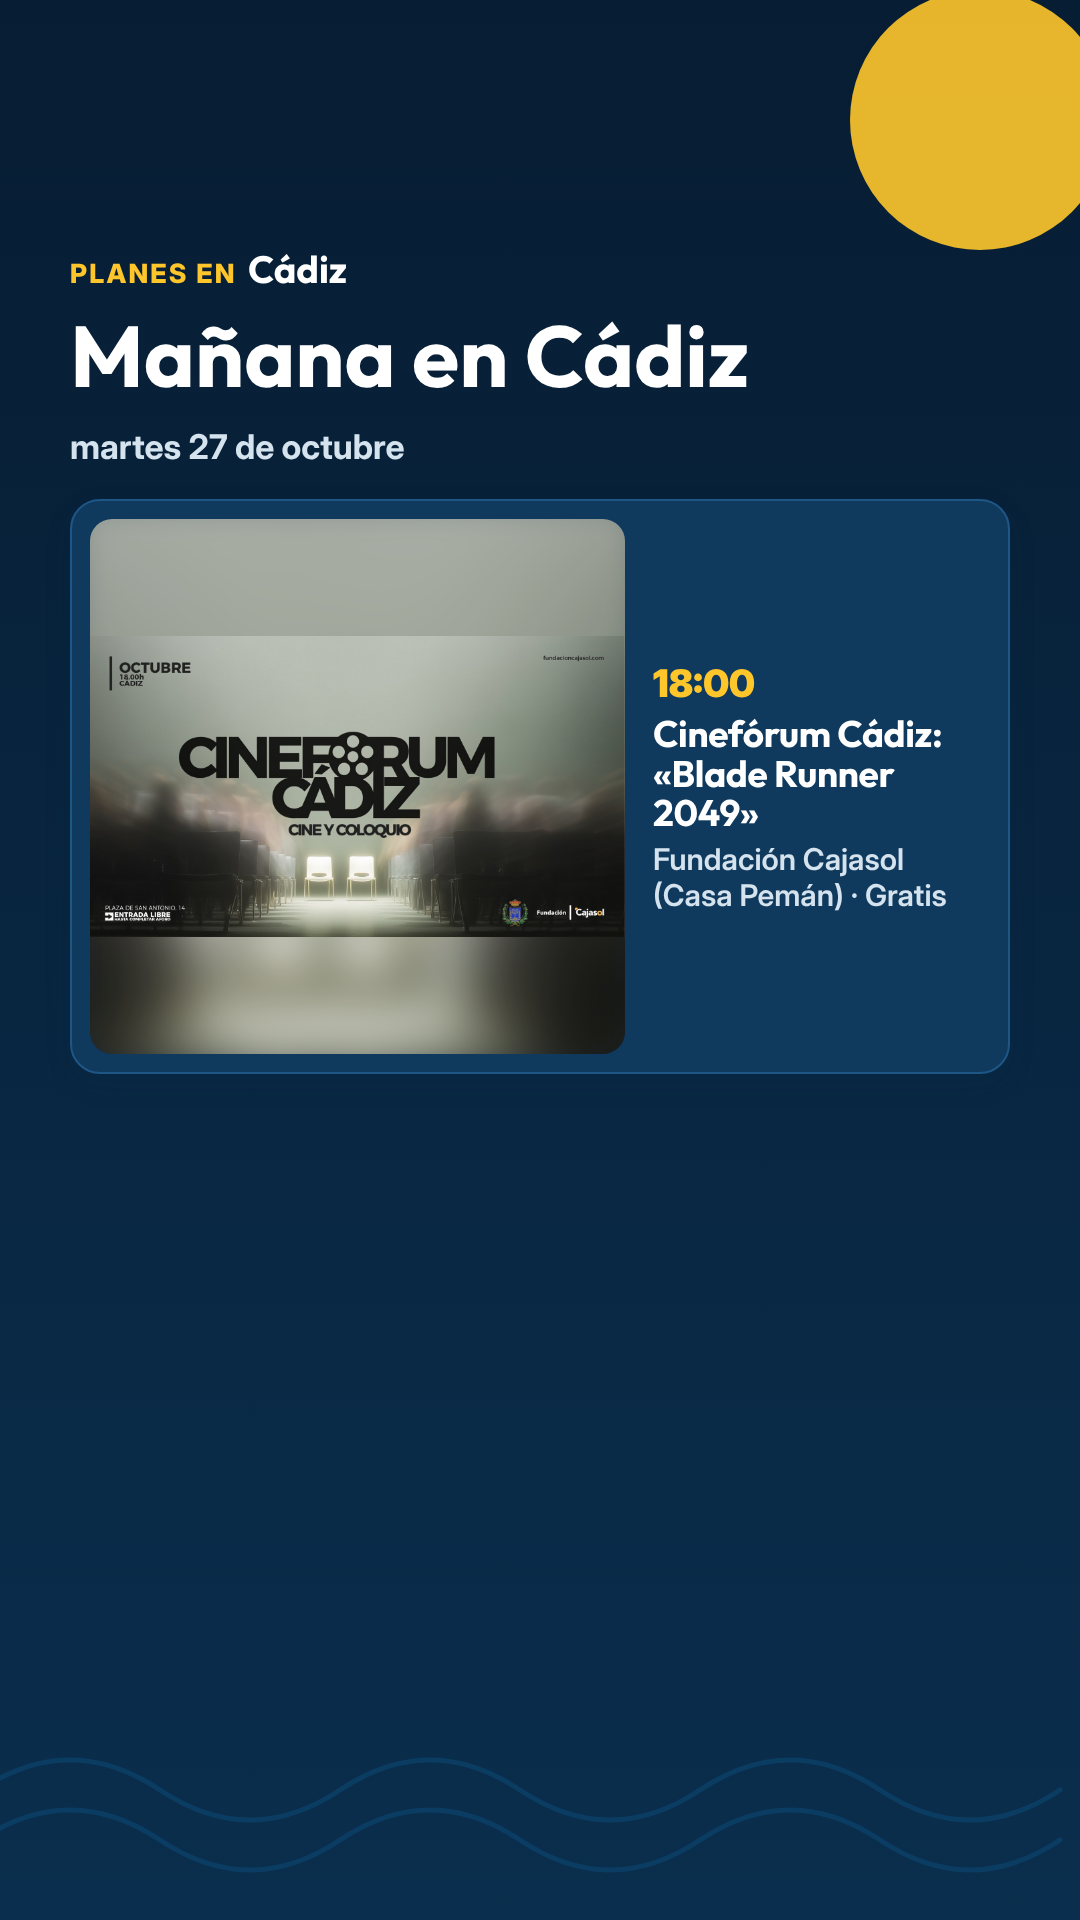
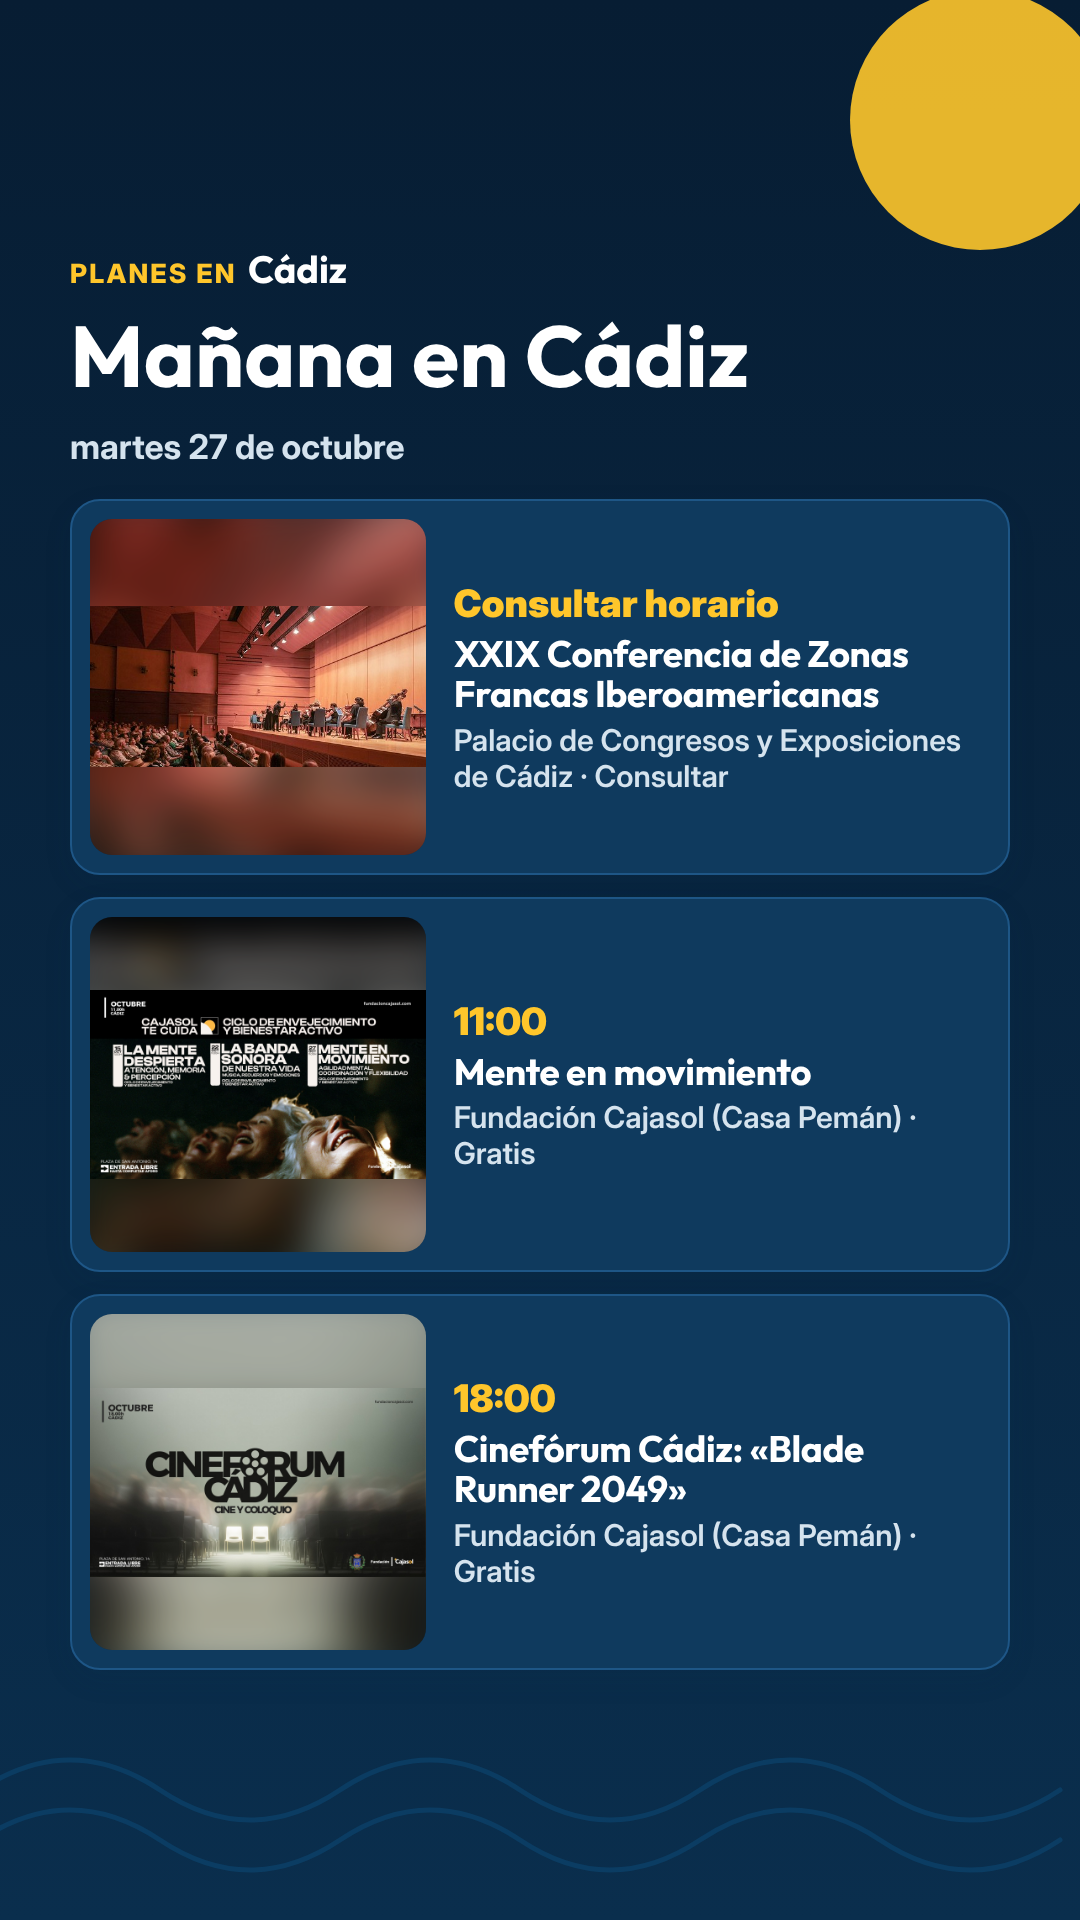
Story Mañana en Cádiz con 3 planes; 'Consultar horario' en plantillas; flujo mañana→hoy
Claude-Session: https://claude.ai/code/session_015K7xjVeU4nwxNYicvNL5Uy

diff --git a/plantilla/reel.html b/plantilla/reel.html
@@ -160,7 +160,7 @@ async function render(d){
     const diaIdx=Math.max(0,dias.findIndex(x=>x.iso===ev.fecha));
     const segs=d.eventos.map((_,j)=>`<i><b></b></i>`).join("");
     const tabs=dias.map((x,j)=>`<span class="dia ${j===diaIdx?"on":""}">${x.abr} ${x.num}</span>`).join("");
-    const horaT=(ev.todo_el_dia||!ev.hora_inicio)?"Todo el día":(ev.hora_fin?`${ev.hora_inicio}–${ev.hora_fin}`:ev.hora_inicio);
+    const horaT=(ev.todo_el_dia||(!ev.hora_inicio&&ev.etiqueta))?"Todo el día":!ev.hora_inicio?"Consultar horario":(ev.hora_fin?`${ev.hora_inicio}–${ev.hora_fin}`:ev.hora_inicio);
     e.innerHTML=`<div class="sol"></div><div class="prog">${segs}</div><div class="dias">${tabs}</div><div class="nro">${i+1}/${n}</div>
       <div class="foto-w"><div class="k"><div class="f" ${fotoAttrs(ev)} role="img" aria-label="${esc(ev.imagen&&ev.imagen.alt_text)}"></div></div></div>
       <span class="cat">${esc(ev.etiqueta||ev.categoria)}</span>${ev.fecha_txt?`<span class="cat b">${esc(ev.fecha_txt)}</span>`:""}

diff --git a/plantilla/story.html b/plantilla/story.html
@@ -18,7 +18,7 @@ h1{font-size:62px;line-height:1.06;overflow-wrap:anywhere}
 async function render(d){
   aplicarTema(d); const ev=d.evento;
   const dir=ev.direccion?`<small class="clamp1">${esc(ev.direccion)}</small>`:"";
-  const hora=(ev.todo_el_dia||!ev.hora_inicio)?"Todo el día":`${esc(ev.hora_inicio)}${ev.hora_fin?" a "+esc(ev.hora_fin):""}`;
+  const hora=(ev.todo_el_dia||(!ev.hora_inicio&&ev.etiqueta))?"Todo el día":!ev.hora_inicio?"Consultar horario":`${esc(ev.hora_inicio)}${ev.hora_fin?" a "+esc(ev.hora_fin):""}`;
   document.getElementById("l").innerHTML=`<div class="fondo foto" style="background-image:${foto(ev)}"></div><div class="deco"></div>
   <div class="zona">
     <div class="fila">${logo(d,"mini",38)}</div>

diff --git a/plantilla/comun.js b/plantilla/comun.js
@@ -2,7 +2,8 @@
 function esc(s) { return String(s ?? "").replace(/[&<>"]/g, c => ({ "&": "&amp;", "<": "&lt;", ">": "&gt;", '"': "&quot;" }[c])); }
 function foto(ev) { return (ev.imagen && ev.imagen.ruta_abs) ? `url('${ev.imagen.ruta_abs}')` : "none"; }
 function horaTxt(ev) {
-  if (ev.todo_el_dia || !ev.hora_inicio) return "Todo el día";
+  if (ev.todo_el_dia || (!ev.hora_inicio && ev.etiqueta)) return "Todo el día";
+  if (!ev.hora_inicio) return "Consultar horario";
   return ev.hora_fin ? `${ev.hora_inicio}–${ev.hora_fin}` : ev.hora_inicio;
 }
 function precioTxt(ev) { return ev.precio || "Consultar"; }

diff --git a/interaccion.py b/interaccion.py
@@ -31,7 +31,7 @@ EMOJI = {"música": "🎶", "teatro": "🎭", "infantil": "🧒", "exposición":
 
 def _linea_evento(ev, con_dia=False):
     """Dos líneas por plan: «🎶 20:00 · Nombre» y «📍 Lugar · precio»."""
-    hora = "Todo el día" if (ev.get("todo_el_dia") or not ev.get("hora_inicio")) else (f"{ev['hora_inicio']}–{ev['hora_fin']}" if ev.get("hora_fin") else ev["hora_inicio"])
+    hora = "Todo el día" if (ev.get("todo_el_dia") or (not ev.get("hora_inicio") and ev.get("etiqueta"))) else ("Consultar horario" if not ev.get("hora_inicio") else None) or (f"{ev['hora_inicio']}–{ev['hora_fin']}" if ev.get("hora_fin") else ev["hora_inicio"])
     emo = EMOJI.get(ev.get("categoria"), "✨")
     dia = (ev.get("fecha_txt") or "") if con_dia else ""
     sin_hora = hora == "Todo el día"

diff --git a/tareas.md b/tareas.md
@@ -25,7 +25,7 @@ Trabaja en el repositorio juanguena-png/agenda-cadiz (rama main). Si no está cl
 ```
 Eres el agente de Planes en Cádiz. F = fecha de hoy en Europe/Madrid (`date +%F`). Ejecuta `python preflight.py` (informativo). Si MODO=borrador, haz todo igual pero SIN publicar: genera el contenido, haz commit y push de posts/F a main y termina con el resumen.
 
-1. DIARIO. `python recopilar.py --fecha F`. Lee posts/F/candidatos.json (agenda oficial del Ayuntamiento y Turismo, Junta de Andalucía, Bacantix, Onda Cádiz, Cádiz Guitar Festival, UCA, Guía de Cádiz…) y ejecuta TODAS las `consultas_web` (WebFetch/WebSearch), incluidas las ~28 de «Descubrimiento diario». Para CADA evento de hoy: confirma en la propia fuente que está en Cádiz capital (si hay duda, descártalo), contrasta con otras fuentes y elimina duplicados, ignora suspendidos/cancelados, busca la imagen oficial (`python imagenes.py --url FICHA --id ID --fecha F`; si no hay, `render.py` crea una ilustración propia relacionada con el evento: revísala y afina `ilustracion.motivos` si hace falta), redacta descripciones con palabras propias, ETIQUETA (comprueba `python etiquetas.py --evento posts/F/eventos.json`: cada evento debe llevar sus perfiles de Instagram verificados; añade los que falten con `etiquetas.py --anadir` tras verificarlos) y escribe posts/F/eventos.json (esquema de CLAUDE.md, con verificacion_cadiz_capital y etiquetas_ig por evento; en el caption pon el @ de cada organizador o recinto junto a su línea). Guarda los descartados con motivo en posts/F/descartados.json y en estado.json → descubiertos_web las búsquedas que dieron eventos. Eventos permanentes: fuera, salvo el relleno «Siempre abierto» descrito en CLAUDE.md.
+1. DIARIO. Punto de partida: `noche_manana` de posts/(F-1)/eventos.json (lo verificado ayer por la tarde para hoy). `python recopilar.py --fecha F` es un scrapeo rápido para detectar lo NUEVO, cambios o cancelaciones; no rehagas lo ya verificado, recomprueba su hora y estado. Lee posts/F/candidatos.json (agenda oficial del Ayuntamiento y Turismo, Junta de Andalucía, Bacantix, Onda Cádiz, Cádiz Guitar Festival, UCA, Guía de Cádiz…) y ejecuta TODAS las `consultas_web` (WebFetch/WebSearch), incluidas las ~28 de «Descubrimiento diario». Para CADA evento de hoy: confirma en la propia fuente que está en Cádiz capital (si hay duda, descártalo), contrasta con otras fuentes y elimina duplicados, ignora suspendidos/cancelados, busca la imagen oficial (`python imagenes.py --url FICHA --id ID --fecha F`; si no hay, `render.py` crea una ilustración propia relacionada con el evento: revísala y afina `ilustracion.motivos` si hace falta), redacta descripciones con palabras propias, ETIQUETA (comprueba `python etiquetas.py --evento posts/F/eventos.json`: cada evento debe llevar sus perfiles de Instagram verificados; añade los que falten con `etiquetas.py --anadir` tras verificarlos) y escribe posts/F/eventos.json (esquema de CLAUDE.md, con verificacion_cadiz_capital y etiquetas_ig por evento; en el caption pon el @ de cada organizador o recinto junto a su línea). Guarda los descartados con motivo en posts/F/descartados.json y en estado.json → descubiertos_web las búsquedas que dieron eventos. Eventos permanentes: fuera, salvo el relleno «Siempre abierto» descrito en CLAUDE.md.
 2. `python render.py --fecha F`. Mira 2-3 PNG y comprueba que son legibles y sin recortes. Lee posts/F/manifiesto.json → `variante` (A = pregunta/gancho, B = dato directo) y escribe posts/F/caption.txt (lista de eventos con hora, CTA con PLANES, hashtags, «Imágenes: …» / «Ilustraciones: Planes en Cádiz»). Se publica TODOS los días (regla 9): si hay menos de 3 eventos temporales, amplía la búsqueda y completa con «Siempre abierto» (horario de ese día confirmado); basta 1 evento verificado para publicar.
 3. REVISIÓN FINAL hacia las 8:40: vuelve a consultar las fuentes de los eventos de hoy (cancelaciones, cambios de hora). Si algo cambió, corrige eventos.json y repite render.py. Luego `python publicar.py --fecha F --tipo diario --marcar-revision`.
 4. PUBLICAR EN PUNTO: ejecuta en segundo plano `python publicar.py --fecha F --tipo diario --esperar-hasta 09:00` y espera a que termine (carrusel y después stories, secuenciales; replica en Facebook). Revisa posts/F/estado.json y confirma.

diff --git a/CLAUDE.md b/CLAUDE.md
@@ -71,7 +71,7 @@ El agente debe dejar la base de fuentes **más rica cada día que pasa**. En la 
    - **Sin ninguna imagen utilizable** (o sin calidad suficiente, < 240 px; `render.py` intenta SIEMPRE la imagen oficial de las fichas de `fuentes` antes de ilustrar) → **ilustración propia relacionada con el evento**: `render.py` la genera con `ilustrar.py` (motivos vectoriales elegidos por las palabras del nombre, la descripción y la categoría: guitarra para flamenco, barco para el mar, calabaza para Halloween…, en la paleta de marca; ver `ejemplos/ilustraciones/catalogo-motivos.png`). Revisa el resultado y, si el motivo no refleja bien el evento, afínalo en eventos.json: `"ilustracion": {"motivos": ["barco", "marco"], "fondo": "mar|bruma|noche|sol|cal"}`; si falta un motivo, añádelo a `ilustrar.py`. Queda marcada `generada: true`; en el caption añade «Ilustraciones: Planes en Cádiz». La imagen genérica de categoría (`plantilla/sin-foto/`) es solo el último recurso si falla la ilustración. Nunca inventes un cartel ni imites uno oficial.
    - Si un organizador pide retirar una imagen: se sustituye por la genérica y se añade a la lista de exclusión de `fuentes.md`. Antes de usar una imagen, comprueba esa lista.
 8. Sigue siempre `marca.md` (identidad definitiva «Planes en Cádiz», dirección Mediterráneo luminoso; `marca.json`) y las plantillas; no reinterpretes el diseño.
-9. **Se publica TODOS los días, sin excepción** (carrusel + stories a las 9:00, story de las 18:30; el reel los jueves). Basta 1 evento verificado. Si hay pocos eventos temporales, el agente busca más (descubrimiento, más fuentes, prensa, organizadores) y completa con «Siempre abierto» (permanentes con horario de ese día confirmado, ver abajo) hasta tener al menos 3 planes. Si aun así solo queda 1 o 0, se publica igual con lo verificado: nunca se inventa nada y nunca se baja la regla 1. Si no hay ningún plan nocturno, la story de las 18:30 sale como «Mañana en Cádiz» (clave `noche_manana` en eventos.json con TODOS los eventos temporales verificados de mañana —los mismos que irán en el carrusel de mañana, con su hora—, no solo los nocturnos ni solo uno; antes de generarla, repasa los candidatos de mañana con la misma criba que el flujo de las 7:50). Solo se omite una publicación si hay 0 eventos verificados incluso con relleno; `publicar.py` avisa por email para resolverlo ese mismo día.
+9. **Se publica TODOS los días, sin excepción** (carrusel + stories a las 9:00, story de las 18:30; el reel los jueves). Basta 1 evento verificado. Si hay pocos eventos temporales, el agente busca más (descubrimiento, más fuentes, prensa, organizadores) y completa con «Siempre abierto» (permanentes con horario de ese día confirmado, ver abajo) hasta tener al menos 3 planes. Si aun así solo queda 1 o 0, se publica igual con lo verificado: nunca se inventa nada y nunca se baja la regla 1. Cada tarde se hace un scrapeo completo de mañana para la story de las 18:30 cuando no hay plan nocturno; por la mañana ese `noche_manana` es la base del post del día y solo se hace un scrapeo rápido para ver novedades. Si no hay ningún plan nocturno, la story de las 18:30 sale como «Mañana en Cádiz» (clave `noche_manana` en eventos.json con TODOS los eventos temporales verificados de mañana —los mismos que irán en el carrusel de mañana, con su hora—, no solo los nocturnos ni solo uno; antes de generarla, repasa los candidatos de mañana con la misma criba que el flujo de las 7:50). Solo se omite una publicación si hay 0 eventos verificados incluso con relleno; `publicar.py` avisa por email para resolverlo ese mismo día.
 10. Todo lo publicado en Instagram se replica en la página de Facebook (lo hace `publicar.py`).
 
 ## Prohibido
